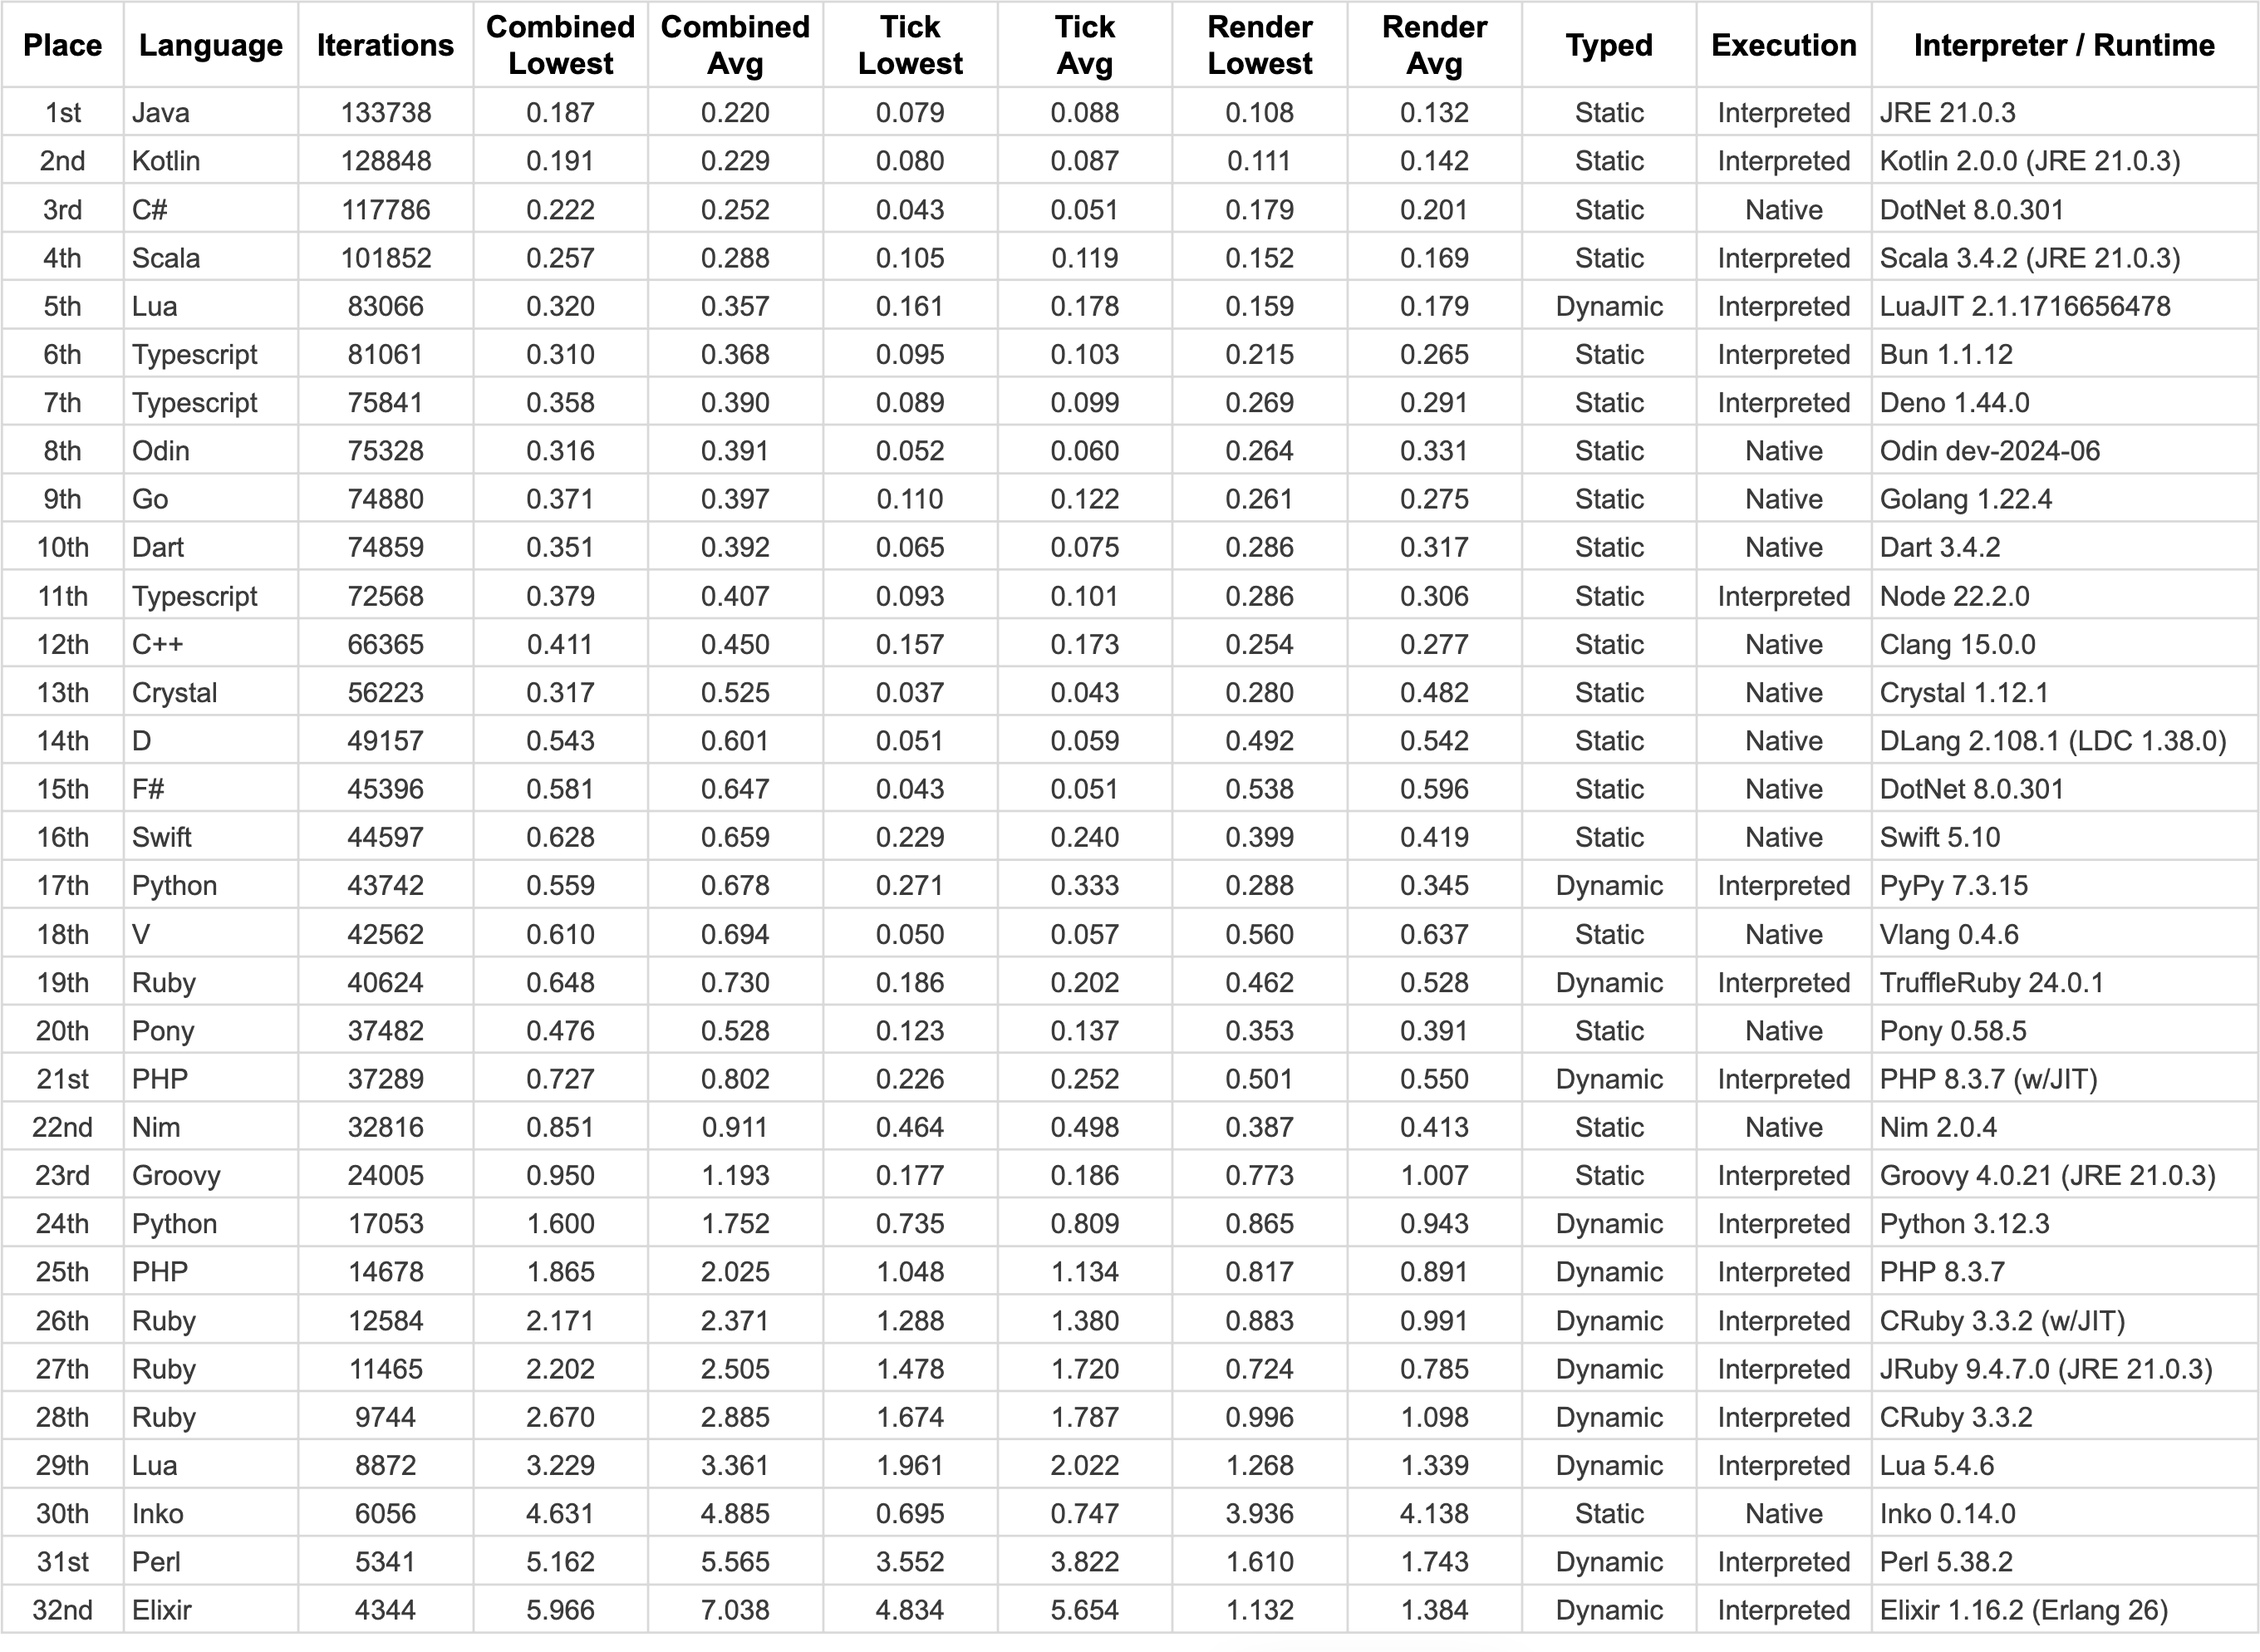
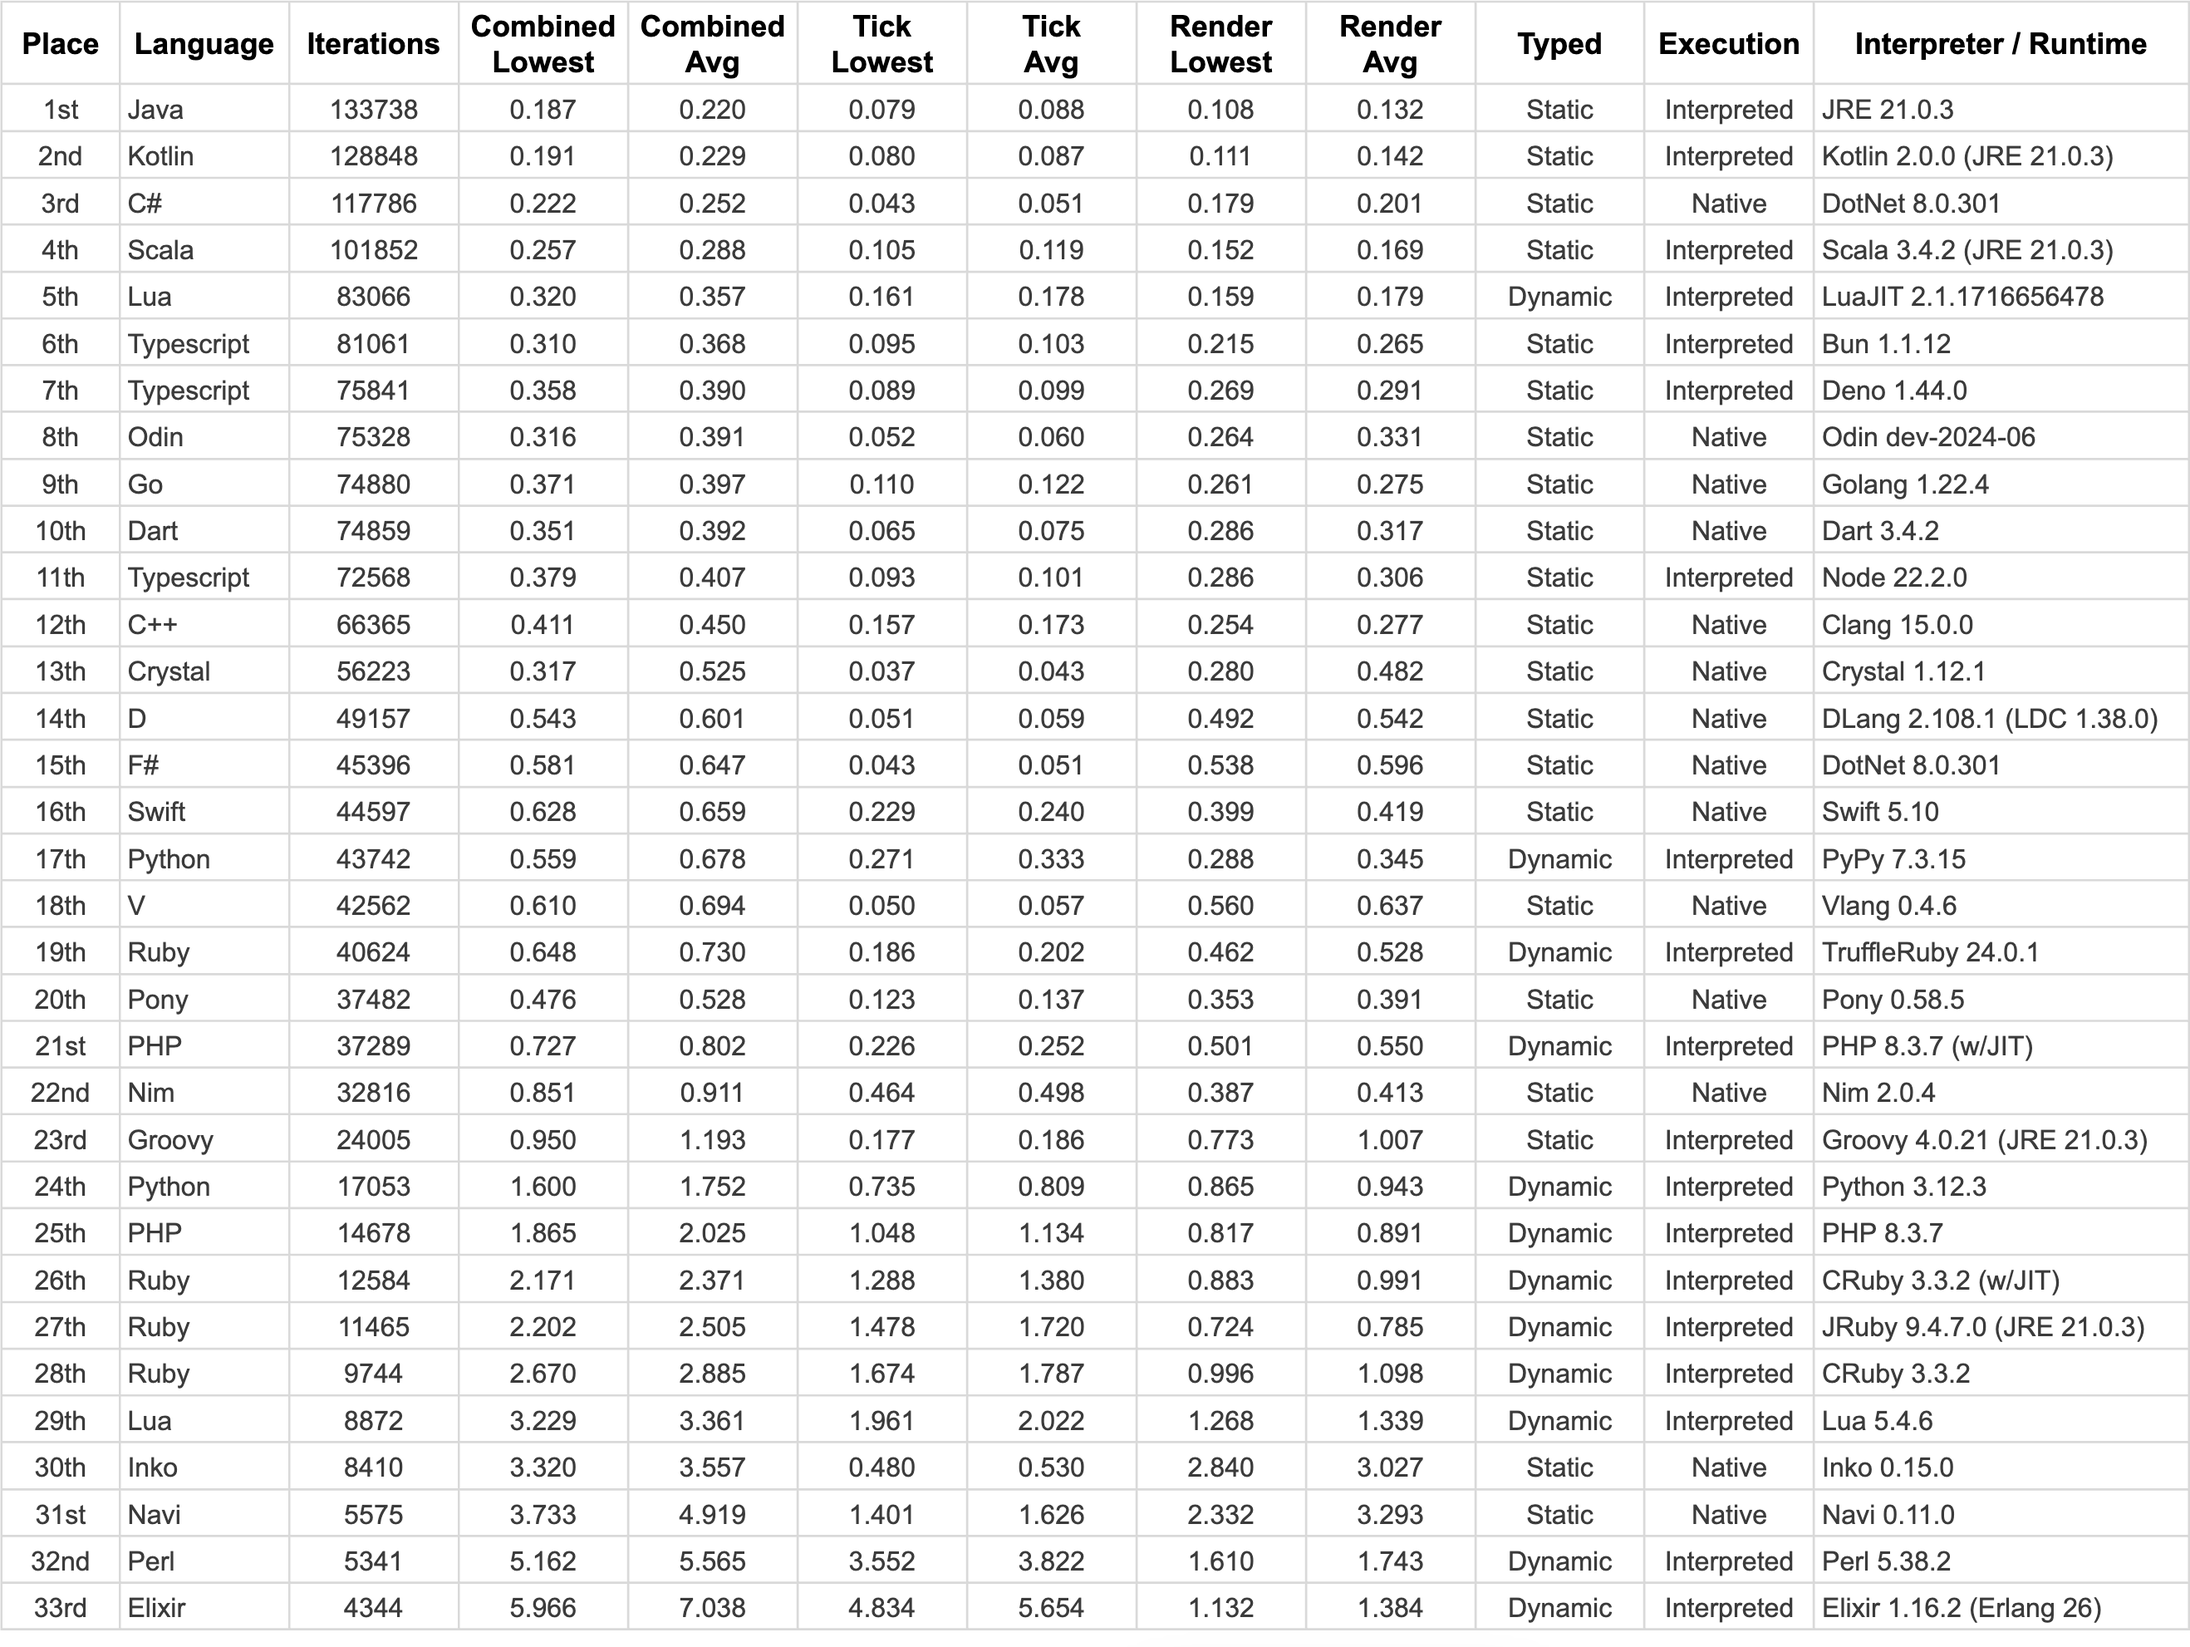
Implementation: Navi

Changed region(s): [[0.0, 0.0, 1.0, 1.0]]

diff --git a/navi/README.md b/navi/README.md
@@ -1,0 +1,17 @@
+# Navi
+
+## Installation
+
+* `curl -sSL https://navi-lang.org/install | bash`
+
+## Usage
+
+* `navi run`
+
+## Notes
+
+This language is still in development, and lacks the following feature(s) compared to other implementations:
+
+* Does not support Infinity or Int/Float max values
+* Does not support Monotonic clock for benchmarking
+* Unable to use Unicode escape sequences to clear the console screen between renders
